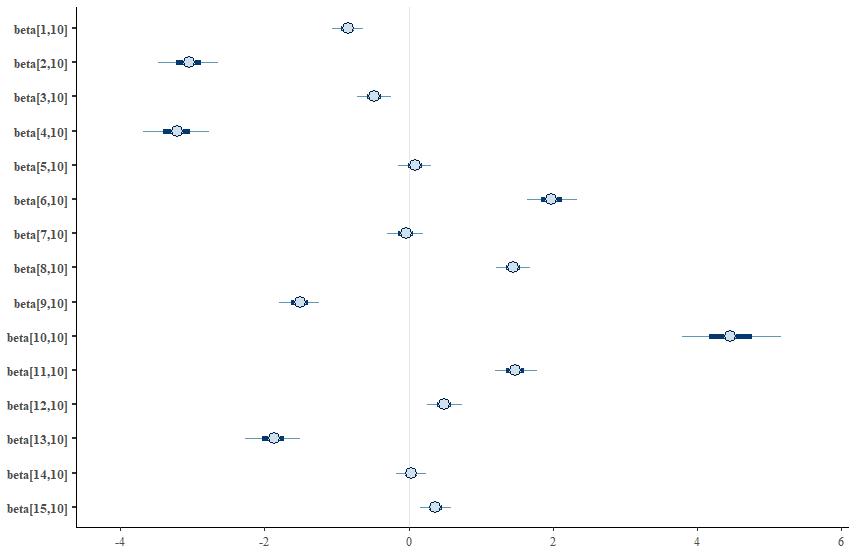
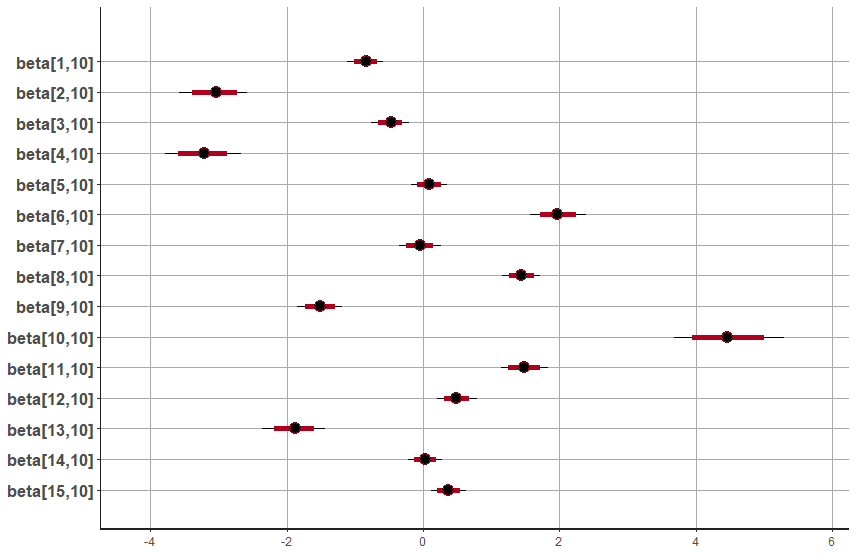
remove unnecessary bayesplot

diff --git a/public/post/hierarchical-logistic-regression/index.html b/public/post/hierarchical-logistic-regression/index.html
@@ -383,19 +383,14 @@ fit &lt;- stan(&quot;hierarchical_logistic.stan&quot;,
 
 <p><img src="/img/sigma_plot.png" alt="Sigma plot" /></p>
 
-<p>Because there are D * L = 150 indivudal coefficients in beta, I won&rsquo;t plot them all. Here, I will plot the estimates across all levels for the first and last coefficients. To do this, I will use Bayesplot.</p>
+<p>Because there are 150 indivudal coefficients in beta, I won&rsquo;t plot them all. Here, I will plot the estimates across all levels for the first and last coefficients.</p>
 
-<pre><code class="language-r">library(bayesplot)
-
-posterior  &lt;- as.array(fit)
-
-mcmc_intervals(posterior, pars = paste0(&quot;beta[&quot;, seq(1:L), &quot;,1]&quot;))
-
+<pre><code class="language-r">plot(fit, pars = paste0(&quot;beta[&quot;, seq(1:L), &quot;,1]&quot;))
 </code></pre>
 
 <p><img src="/img/beta1plot.png" alt="Beta 1 plot" /></p>
 
-<pre><code class="language-r">mcmc_intervals(posterior, pars = paste0(&quot;beta[&quot;, seq(1:L), &quot;,&quot;, D, &quot;]&quot;))
+<pre><code class="language-r">plot(fit, pars = paste0(&quot;beta[&quot;, seq(1:L), &quot;,&quot;, D, &quot;]&quot;))
 </code></pre>
 
 <p><img src="/img/beta10plot.png" alt="Beta 10 plot" /></p>

diff --git a/content/post/2018-10-24-hierarchical-logistic-regression.md b/content/post/2018-10-24-hierarchical-logistic-regression.md
@@ -109,21 +109,16 @@ plot(fit, pars = "sigma")
 
 ![Sigma plot](/img/sigma_plot.png)
 
-Because there are D * L = 150 indivudal coefficients in beta, I won't plot them all. Here, I will plot the estimates across all levels for the first and last coefficients. To do this, I will use Bayesplot.
+Because there are 150 indivudal coefficients in beta, I won't plot them all. Here, I will plot the estimates across all levels for the first and last coefficients.
 
 ```r
-library(bayesplot)
-
-posterior  <- as.array(fit)
-
-mcmc_intervals(posterior, pars = paste0("beta[", seq(1:L), ",1]"))
-
+plot(fit, pars = paste0("beta[", seq(1:L), ",1]"))
 ```
 ![Beta 1 plot](/img/beta1plot.png)
 
 
 ```r
-mcmc_intervals(posterior, pars = paste0("beta[", seq(1:L), ",", D, "]"))
+plot(fit, pars = paste0("beta[", seq(1:L), ",", D, "]"))
 ```
 
 ![Beta 10 plot](/img/beta10plot.png)
